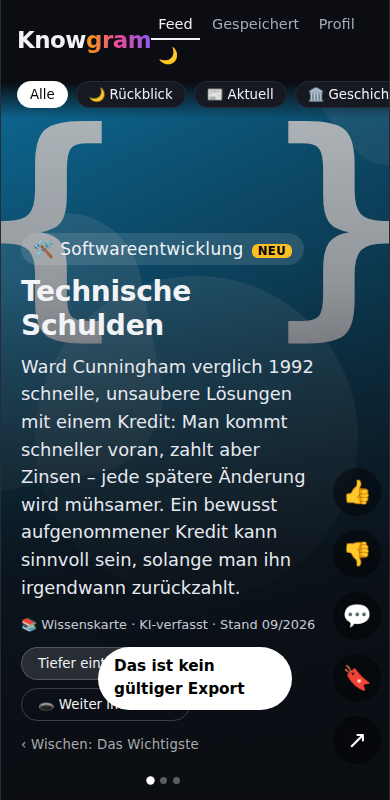
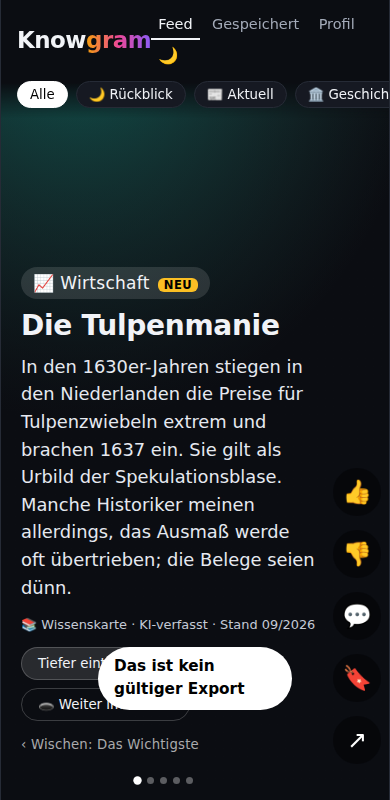
Inhaltliche Korrekturen nach Gegenlesen (Ricardo-Beispiel, COBE, Hopper, Hebräisch, Wallenstein)

diff --git a/cards.js b/cards.js
@@ -65,7 +65,7 @@ window.CARDS = [
   // Kosmologie
   { id: "ko1", topic: "kosmologie", title: "Das Nachglühen des Urknalls", q: "Kosmische Hintergrundstrahlung Penzias Wilson",
     points: ["1965: Penzias und Wilson empfangen ein Rauschen aus allen Richtungen", "Es ist Licht aus der Zeit etwa 380.000 Jahre nach dem Urknall", "Heute nur noch 2,7 Kelvin kalt; Nobelpreis 1978"],
-    slides: [{"h": "🔢 Zahlen & Fakten", "points": ["Temperatur heute: rund 2,7 Kelvin (etwa −270,4 °C)", "Ausgesandt etwa 380.000 Jahre nach dem Urknall", "Winzige Temperaturunterschiede zeigen, wie sich später Galaxien bilden konnten"]}, {"h": "🔭 Die Entdeckung", "steps": ["1948: Alpher und Gamow sagen ein Nachglühen des Urknalls voraus", "1965: Penzias und Wilson stoßen an einer Antenne in New Jersey zufällig auf das Rauschen – auch Taubenkot wurde als Ursache geprüft", "1978: Nobelpreis für Penzias und Wilson", "1989: Der Satellit COBE vermisst das Spektrum genau"], "img": "Holmdel Horn Antenna Penzias Wilson"}],
+    slides: [{"h": "🔢 Zahlen & Fakten", "points": ["Temperatur heute: rund 2,7 Kelvin (etwa −270,4 °C)", "Ausgesandt etwa 380.000 Jahre nach dem Urknall", "Winzige Temperaturunterschiede zeigen, wie sich später Galaxien bilden konnten"]}, {"h": "🔭 Die Entdeckung", "steps": ["1948: Alpher und Gamow sagen ein Nachglühen des Urknalls voraus", "1965: Penzias und Wilson stoßen an einer Antenne in New Jersey zufällig auf das Rauschen – auch Taubenkot wurde als Ursache geprüft", "1978: Nobelpreis für Penzias und Wilson", "Ab 1989: Der Satellit COBE vermisst das Spektrum genau"], "img": "Holmdel Horn Antenna Penzias Wilson"}],
     text: "1965 empfingen Arno Penzias und Robert Wilson bei Tests einer Antenne ein hartnäckiges Rauschen aus allen Richtungen. Es war die kosmische Hintergrundstrahlung: Licht aus der Zeit etwa 380.000 Jahre nach dem Urknall, heute nur noch 2,7 Kelvin kalt. Dafür gab es 1978 den Nobelpreis." },
   { id: "ko2", topic: "kosmologie", title: "Größer als sein Alter", q: "Beobachtbares Universum Größe",
     points: ["Alter des Universums: rund 13,8 Milliarden Jahre", "Beobachtbares Universum: Radius etwa 46 Milliarden Lichtjahre", "Kein Widerspruch: Der Raum dehnt sich aus, während das Licht unterwegs ist"],
@@ -107,7 +107,7 @@ window.CARDS = [
   // IT
   { id: "it1", topic: "it", title: "Der erste echte „Bug\"", q: "Grace Hopper Bug Harvard Mark II",
     points: ["1947: Eine Motte im Relais des Harvard Mark II wird ins Logbuch geklebt", "Der Eintrag: „First actual case of bug being found“", "Das Wort „Bug“ für Fehler war älter; Grace Hopper machte die Anekdote bekannt"],
-    slides: [{"h": "🪲 Wahr oder Legende?", "text": "Die Motte gab es wirklich: Sie klebt im Logbuch des Harvard Mark II. Der Witz des Eintrags: „bug“ für Fehler war schon länger üblich, sogar bei Edison. Neu war nur der erste wörtliche Fall."}, {"h": "📓 Das Logbuch", "text": "Die Motte klebte am 9. September 1947 im Logbuch des Harvard Mark II, geführt im Team um Grace Hopper. Das Blatt liegt heute im Smithsonian in Washington.", "img": "first computer bug moth Harvard Mark II logbook"}, {"h": "🧰 Debuggen heute", "points": ["Fehler reproduzieren und eingrenzen", "Ausgaben protokollieren (Logging), Haltepunkte setzen", "Rubber-Duck-Debugging: Das Problem laut einer Gummiente erklären"]}],
+    slides: [{"h": "🪲 Wahr oder Legende?", "text": "Die Motte gab es wirklich: Sie klebt im Logbuch des Harvard Mark II. Der Witz des Eintrags: „bug“ für Fehler war schon länger üblich, sogar bei Edison. Neu war nur der erste wörtliche Fall."}, {"h": "📓 Das Logbuch", "text": "Die Motte klebte am 9. September 1947 im Logbuch des Harvard Mark II, geführt vom Team am Harvard Mark II, zu dem auch Grace Hopper gehörte. Das Blatt liegt heute im Smithsonian in Washington.", "img": "first computer bug moth Harvard Mark II logbook"}, {"h": "🧰 Debuggen heute", "points": ["Fehler reproduzieren und eingrenzen", "Ausgaben protokollieren (Logging), Haltepunkte setzen", "Rubber-Duck-Debugging: Das Problem laut einer Gummiente erklären"]}],
     text: "1947 fanden Ingenieure im Relais des Rechners Harvard Mark II eine Motte und klebten sie ins Logbuch: „First actual case of bug being found\". Das Wort „Bug\" für Fehler war schon älter, die Anekdote wurde durch Grace Hopper bekannt." },
   { id: "it2", topic: "it", title: "Das Jahr-2038-Problem", q: "Jahr-2038-Problem Unix-Zeit",
     points: ["Unix zählt Sekunden seit dem 1. Januar 1970", "Als vorzeichenbehaftete 32-Bit-Zahl läuft der Zähler am 19. Januar 2038 über", "64-Bit-Systeme sind nicht betroffen"],
@@ -353,7 +353,7 @@ window.CARDS = [
     text: "Die Europäische Zentralbank strebt mittelfristig eine Inflationsrate von 2 Prozent an – und zwar symmetrisch: Auch zu wenig Inflation wäre ein Problem. Ein bisschen Preisanstieg gibt Spielraum gegen Deflation, zu viel entwertet Ersparnisse." },
   { id: "wi2", topic: "wirtschaft", title: "Handel lohnt sich – auch für die Schwächeren", q: "David Ricardo komparativer Kostenvorteil",
     points: ["David Ricardo, 1817: Handel lohnt, auch wenn ein Land alles besser kann", "Jeder konzentriert sich auf das, was er im Vergleich am günstigsten kann", "Kernargument für Freihandel – Verlierer im Einzelnen nicht ausgeschlossen"],
-    slides: [{"h": "🍷 Ricardos Beispiel", "text": "England kann Tuch und Wein besser herstellen als Portugal, doch der Vorsprung ist bei Tuch größer. Ricardo rechnete vor: Beide gewinnen, wenn England Tuch und Portugal Wein herstellt und sie tauschen. Entscheidend sind die Verhältnisse der Kosten, nicht die absoluten."}, {"h": "⚖ Die Kehrseite", "text": "Insgesamt entsteht Wohlstand, aber nicht jeder gewinnt. Branchen, die durch billigere Importe unter Druck geraten, verlieren Arbeitsplätze. Die Debatte dreht sich darum, wie man Verlierer auffängt, etwa mit Umschulung."}],
+    slides: [{"h": "🍷 Ricardos Beispiel", "text": "Portugal kann in Ricardos Beispiel Tuch und Wein billiger herstellen als England, doch der Vorsprung ist beim Wein größer. Ricardo rechnete vor: Beide gewinnen, wenn Portugal sich auf Wein und England auf Tuch konzentriert und sie tauschen. Entscheidend sind die Kostenverhältnisse, nicht die absoluten Kosten."}, {"h": "⚖ Die Kehrseite", "text": "Insgesamt entsteht Wohlstand, aber nicht jeder gewinnt. Branchen, die durch billigere Importe unter Druck geraten, verlieren Arbeitsplätze. Die Debatte dreht sich darum, wie man Verlierer auffängt, etwa mit Umschulung."}],
     text: "David Ricardo zeigte 1817: Selbst wenn ein Land alles besser produzieren kann, lohnt sich Handel, wenn sich jeder auf das konzentriert, was er im Vergleich am günstigsten kann („komparativer Kostenvorteil“). Es ist bis heute das Kernargument für Freihandel – auch wenn es Verlierer im Einzelnen nicht ausschließt." },
   { id: "wi3", topic: "wirtschaft", title: "Die Tulpenmanie", q: "Tulpenmanie Niederlande 1637",
     points: ["1630er: Tulpenzwiebeln steigen in den Niederlanden extrem im Preis", "1637 bricht der Markt ein", "Historiker halten das Ausmaß teils für übertrieben"],
@@ -415,7 +415,7 @@ window.CARDS = [
     text: "1786 bemerkte William Jones, dass Sanskrit, Griechisch und Latein einen gemeinsamen Ursprung haben müssen. Heute weiß man: Deutsch, Englisch, Persisch und Hindi gehören zur indogermanischen Sprachfamilie. Aus Vergleichen rekonstruiert man sogar ihre Urahnin – ohne je einen Text davon zu haben." },
   { id: "sp4", topic: "sprache", title: "Rund 7.000 Sprachen – viele in Gefahr", q: "Weltsprachen Anzahl bedrohte Sprachen Ethnologue",
     points: ["Etwa 7.000 Sprachen weltweit", "Laut Ethnologue ist fast die Hälfte bedroht", "Mit jeder Sprache geht Wissen über Natur, Geschichte und Kultur verloren"],
-    slides: [{"big": {"n": "23", "l": "Sprachen werden von mehr als der Hälfte der Menschen gesprochen"}, "h": "🔢 Ungleich verteilt"}, {"h": "🌱 Wiederbelebung ist möglich", "text": "Hebräisch wurde vom Schriftsprache-Status wieder zur Alltagssprache. Maori in Neuseeland und Walisisch in Wales werden mit Schulen, Medien und „Sprachnestern“ gefördert. Es gelingt nicht überall, aber es gibt Erfolge."}, {"h": "📖 Was verloren geht", "text": "Mit einer Sprache verschwinden Lieder, Geschichten und oft Wissen über Pflanzen, Tiere und Landschaft, das nie aufgeschrieben wurde."}],
+    slides: [{"big": {"n": "23", "l": "Sprachen werden von mehr als der Hälfte der Menschen gesprochen"}, "h": "🔢 Ungleich verteilt"}, {"h": "🌱 Wiederbelebung ist möglich", "text": "Hebräisch war lange fast nur Schrift- und Gebetssprache und wurde wieder zur Alltagssprache. Maori in Neuseeland und Walisisch in Wales werden mit Schulen, Medien und „Sprachnestern“ gefördert. Es gelingt nicht überall, aber es gibt Erfolge."}, {"h": "📖 Was verloren geht", "text": "Mit einer Sprache verschwinden Lieder, Geschichten und oft Wissen über Pflanzen, Tiere und Landschaft, das nie aufgeschrieben wurde."}],
     text: "Weltweit werden etwa 7.000 Sprachen gesprochen. Laut Ethnologue gilt fast die Hälfte als bedroht, viele haben nur noch wenige Sprecher. Mit jeder Sprache geht auch Wissen über Natur, Geschichte und Kultur verloren." },
 
   // ---- Mathematik (4)
@@ -685,7 +685,7 @@ window.CARDS = [
   { id: "ge8", topic: "geschichte", title: "Wallenstein: ein Krieg, der sich selbst bezahlt", q: "Albrecht von Wallenstein Kriegsunternehmer",
     series: "Der Dreißigjährige Krieg", part: 2, of: 5,
     points: ["Wallenstein stellt ein riesiges Söldnerheer für den Kaiser auf", "Bezahlt durch Zwangsabgaben (Kontributionen) aus besetzten Gebieten – „Der Krieg ernährt den Krieg“", "1634 im böhmischen Eger ermordet"],
-    slides: [{"h": "💰 Wie sich ein Krieg selbst finanziert", "steps": ["Wallenstein stellt auf eigene Kosten ein Heer auf, zeitweise rund 100.000 Mann", "Er lässt Städte und Regionen Kontributionen zahlen", "Die Soldaten leben von der Bevölkerung des besetzten Gebiets", "Der Kaiser spart sich die Kosten, die Bevölkerung trägt die Last"], "img": "Wallenstein army Thirty Years War"}, {"h": "🎭 Sturz und Tod", "text": "Der Kaiser setzte Wallenstein 1630 ab und rief ihn 1632 zurück. Der Feldherr verhandelte eigenmächtig mit Gegnern. Im Februar 1634 wurde er in Eger auf kaiserlichen Befehl hin ermordet."}],
+    slides: [{"h": "💰 Wie sich ein Krieg selbst finanziert", "steps": ["Wallenstein stellt auf eigene Kosten ein Heer auf, zeitweise rund 100.000 Mann", "Er lässt Städte und Regionen Kontributionen zahlen", "Die Soldaten leben von der Bevölkerung des besetzten Gebiets", "Der Kaiser spart sich die Kosten, die Bevölkerung trägt die Last"], "img": "Wallenstein army Thirty Years War"}, {"h": "🎭 Sturz und Tod", "text": "Der Kaiser setzte Wallenstein 1630 ab und rief ihn 1632 zurück. Der Feldherr verhandelte eigenmächtig mit Gegnern. Im Februar 1634 wurde er in Eger von Offizieren ermordet, mutmaßlich mit Billigung des Kaisers."}],
     text: "Albrecht von Wallenstein stellte für den Kaiser ein riesiges Söldnerheer auf und ließ es aus den besetzten Gebieten bezahlen – durch Zwangsabgaben, Kontributionen genannt. „Der Krieg ernährt den Krieg“, heißt es seither. 1634 wurde er im böhmischen Eger ermordet. Doch schon 1631 erschütterte ein Ereignis ganz Europa. → Teil 3" },
   { id: "ge9", topic: "geschichte", title: "Magdeburg 1631: eine Stadt verschwindet", q: "Zerstörung Magdeburgs 1631 Tilly",
     series: "Der Dreißigjährige Krieg", part: 3, of: 5,

diff --git a/sw.js b/sw.js
@@ -1,4 +1,4 @@
-const CACHE = "knowgram-v23";
+const CACHE = "knowgram-v24";
 const FILES = ["./", "index.html", "style.css", "app.js", "cards.js", "art.js", "config.js", "manifest.webmanifest", "icon.svg", "icon-192.png", "icon-512.png"];
 self.addEventListener("install", (e) => { e.waitUntil(caches.open(CACHE).then((c) => c.addAll(FILES))); self.skipWaiting(); });
 self.addEventListener("activate", (e) => { e.waitUntil(caches.keys().then((ks) => Promise.all(ks.filter((k) => k !== CACHE).map((k) => caches.delete(k))))); self.clients.claim(); });
